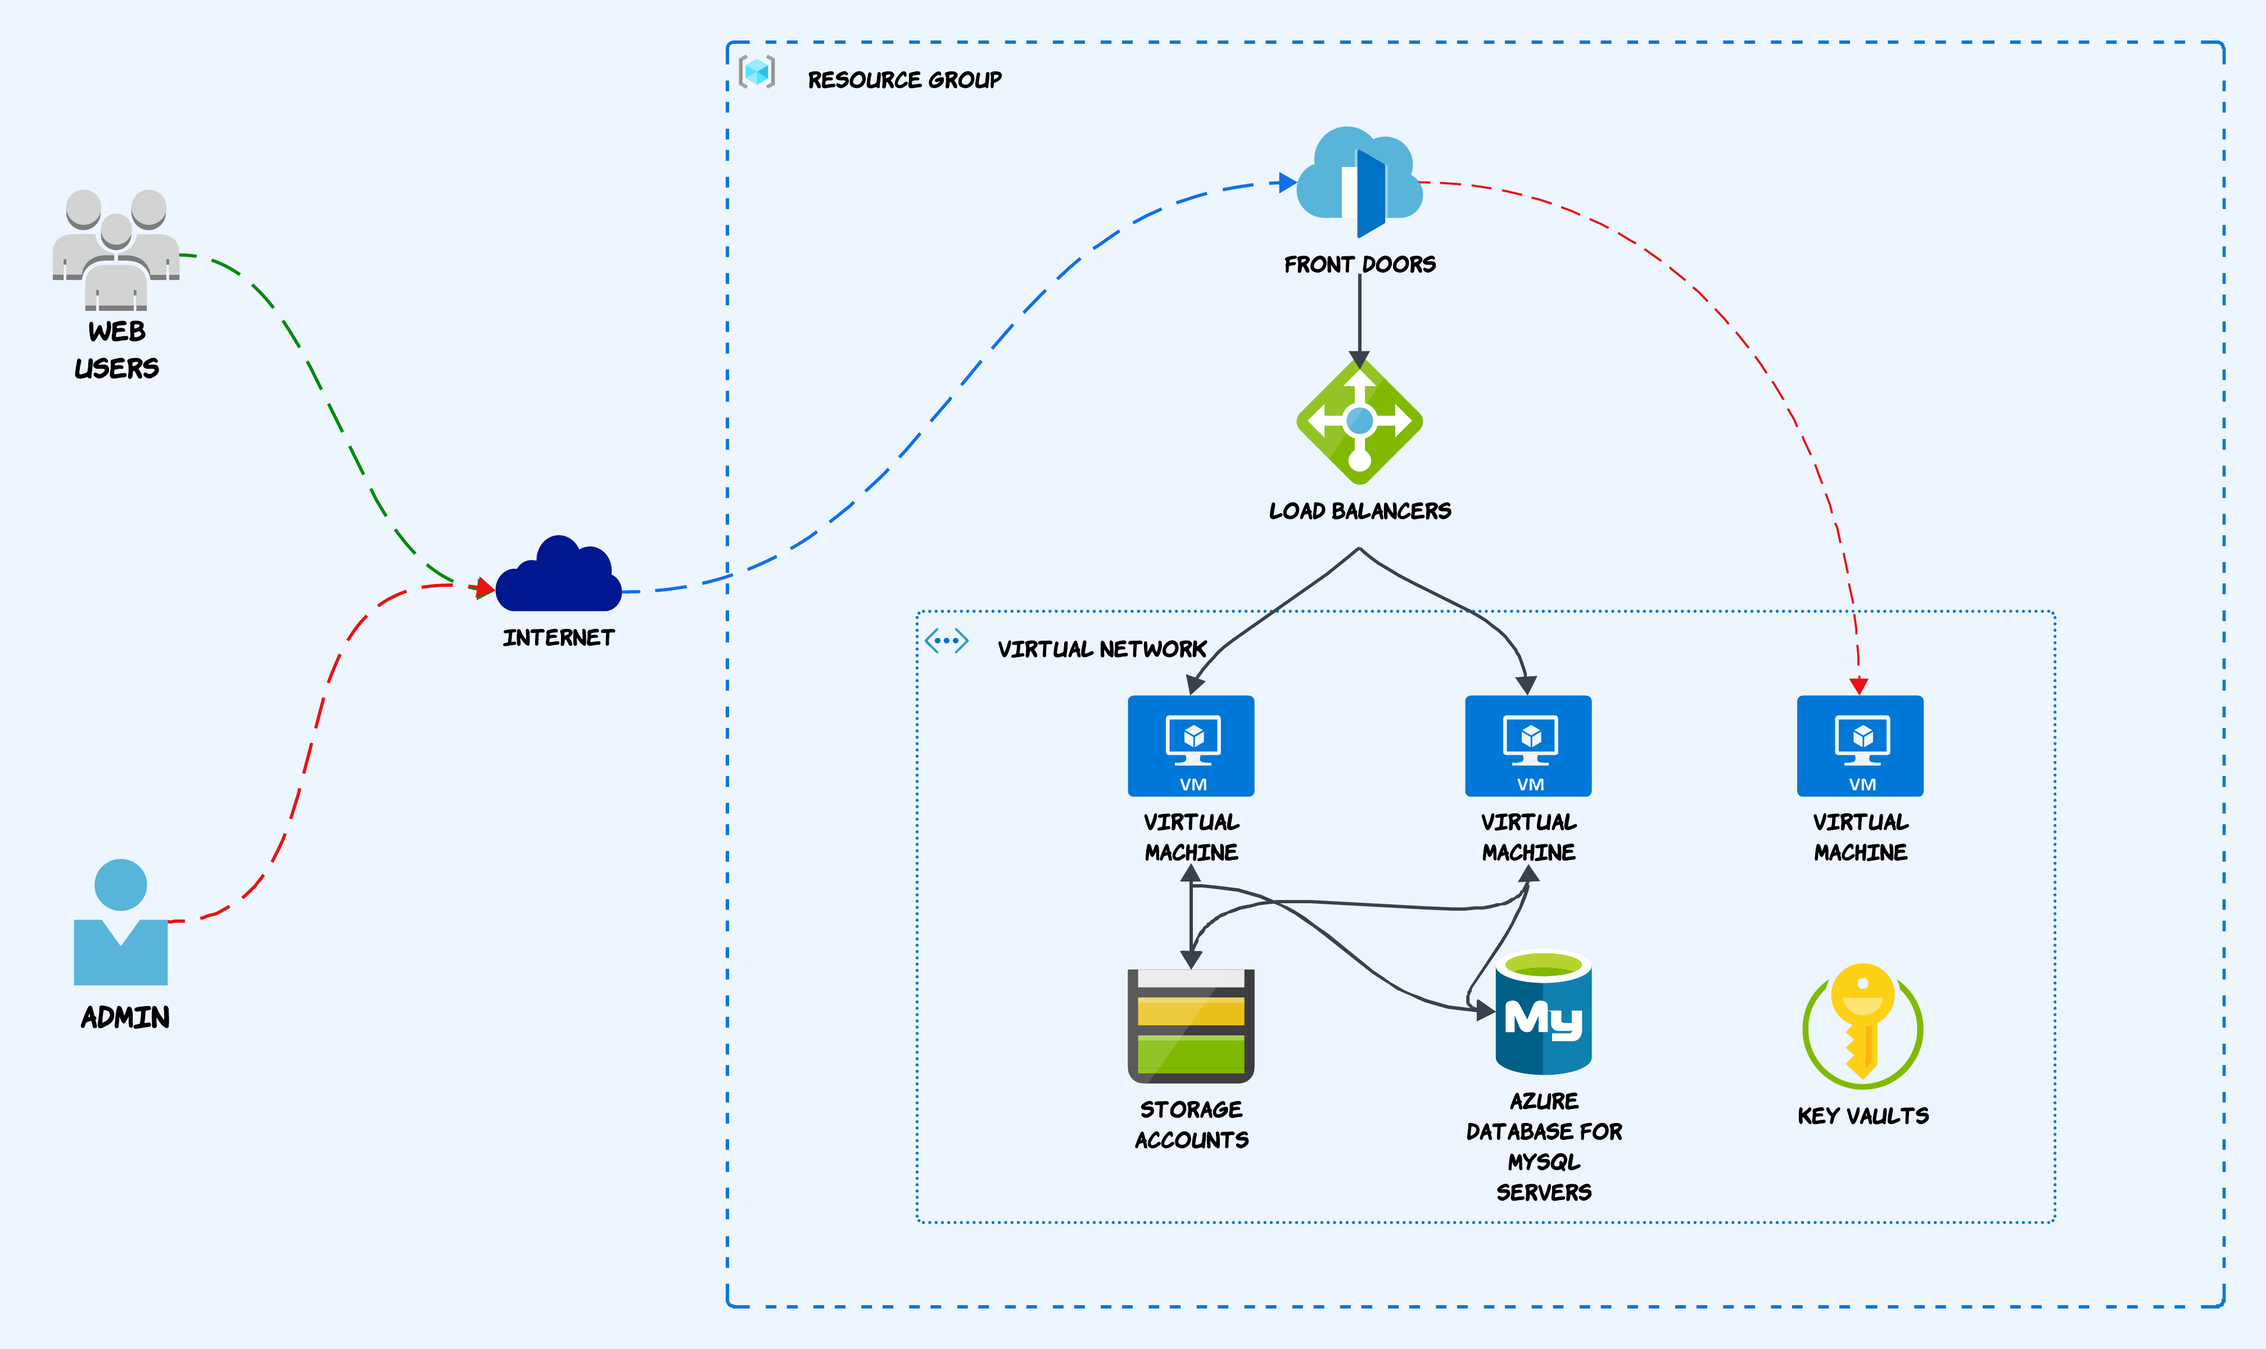
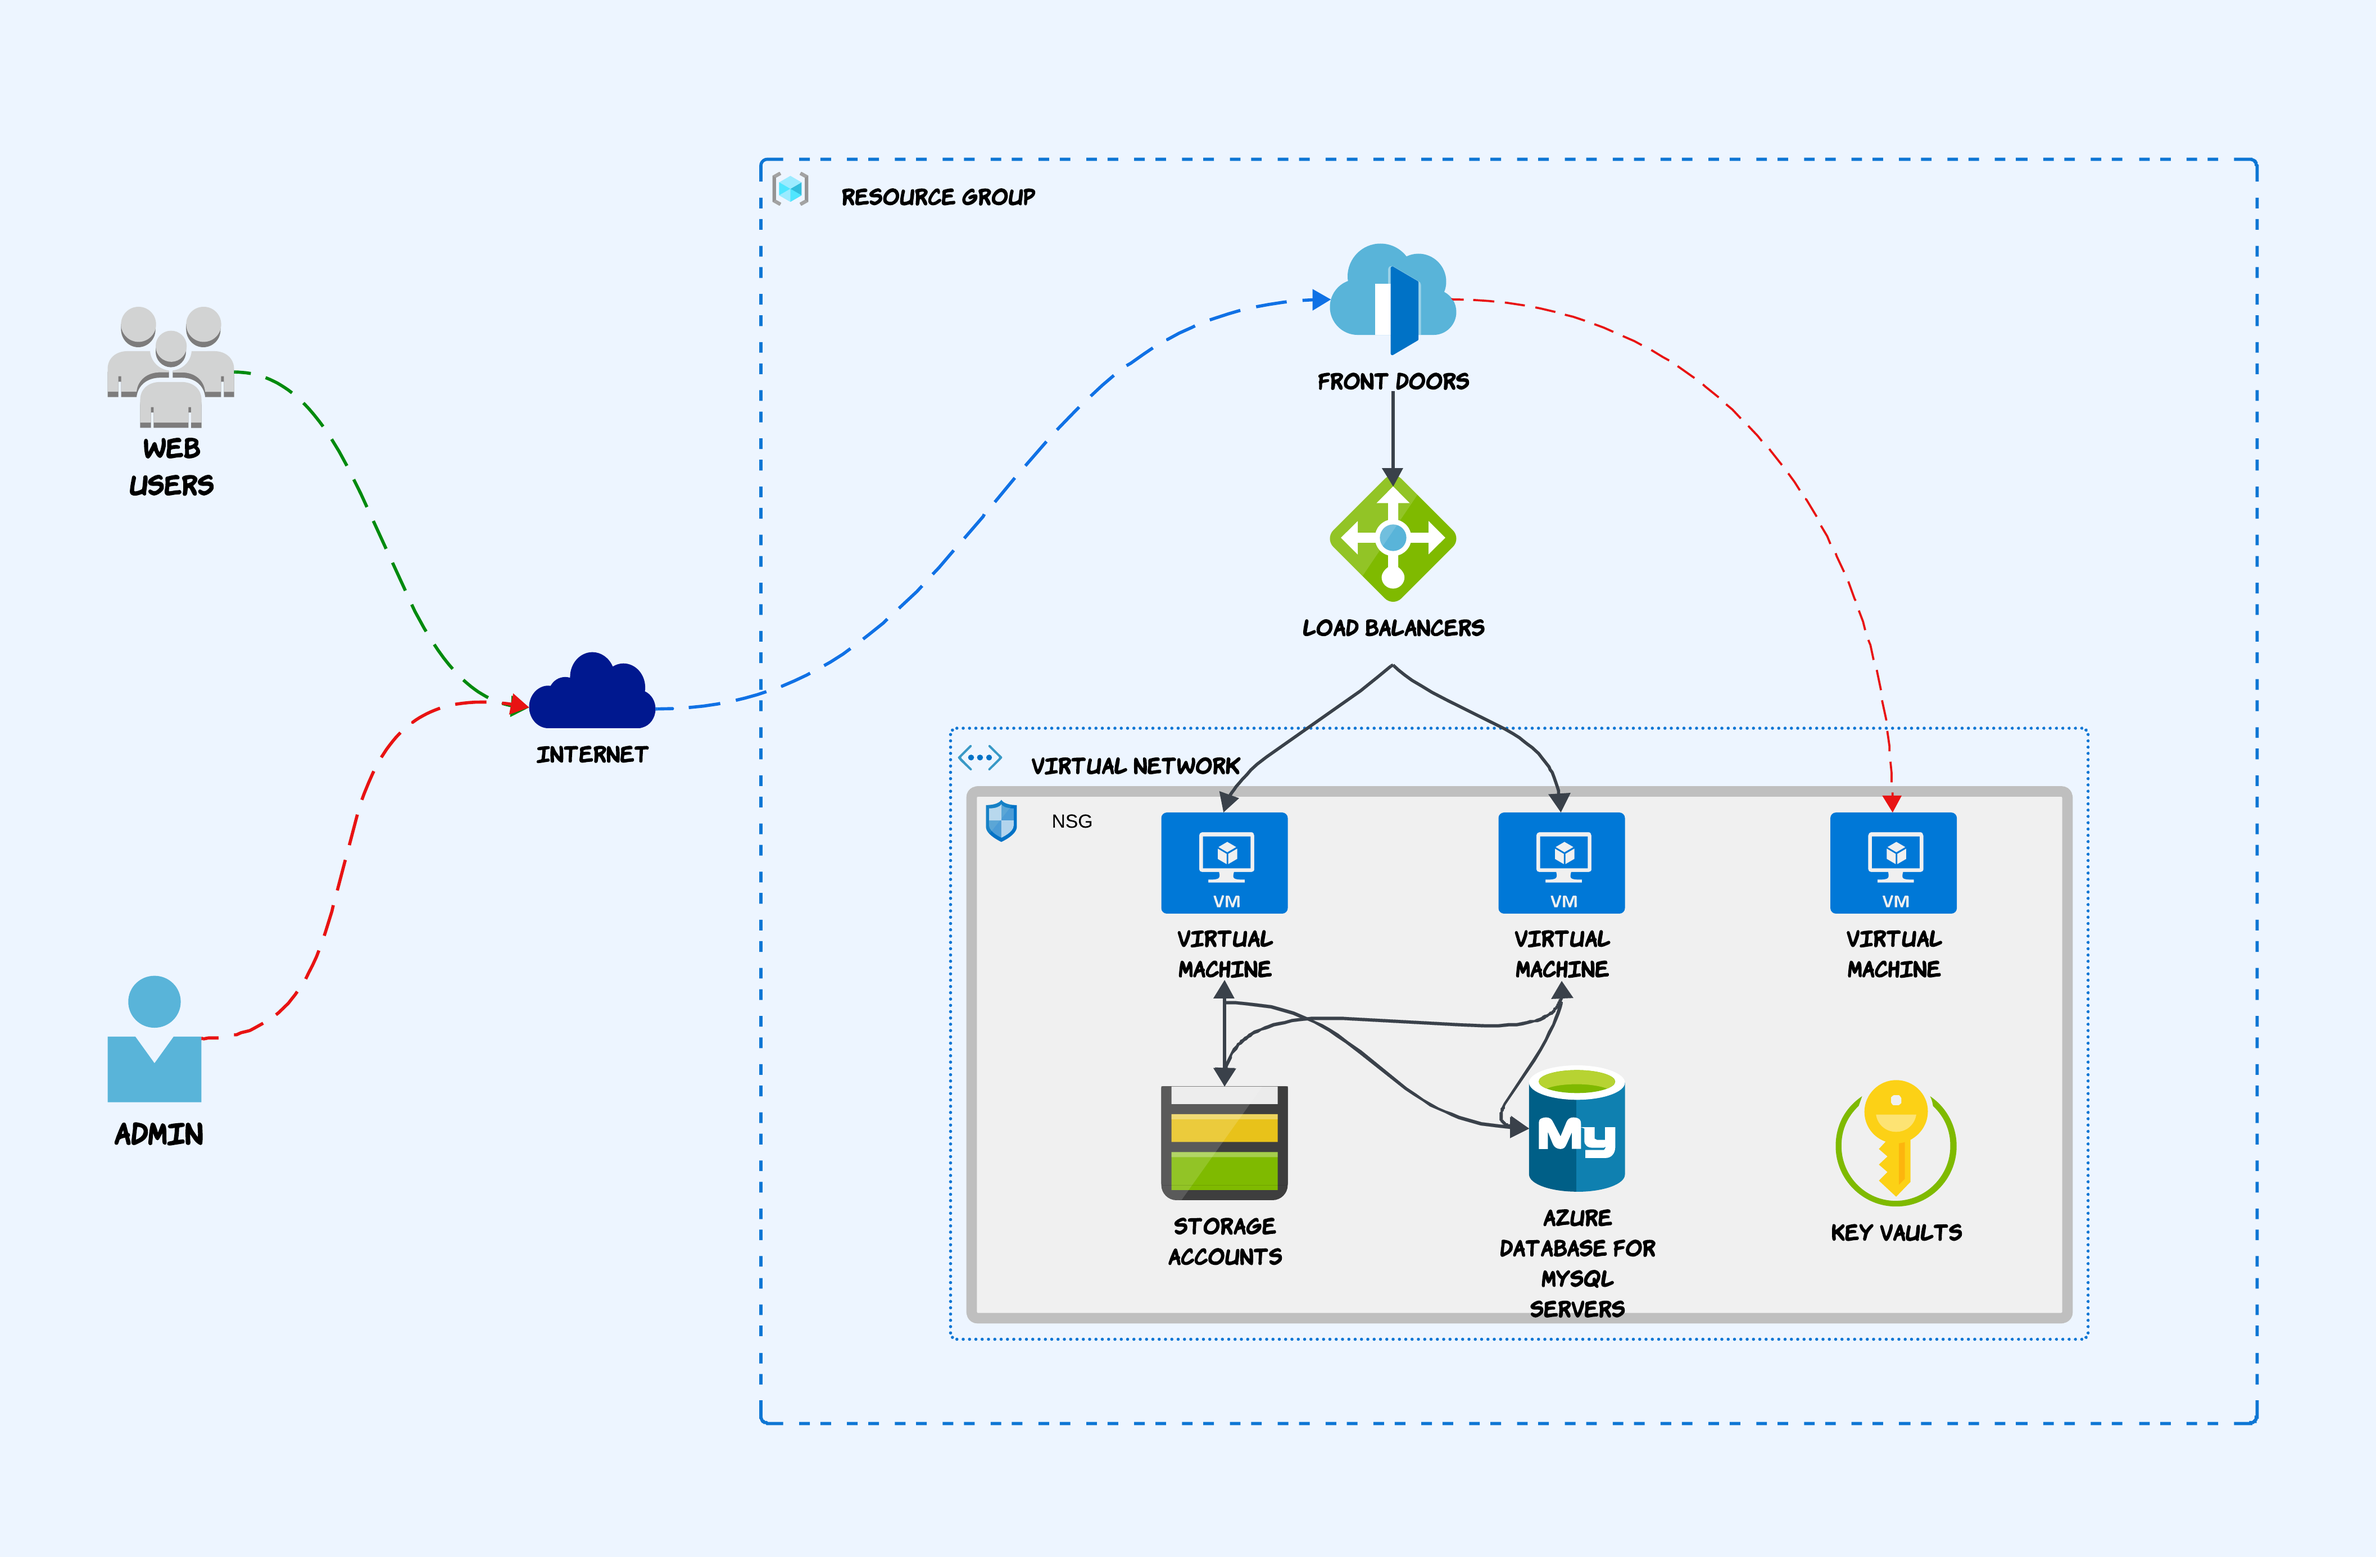
Updated net diag

diff --git a/docs/Part_1.md b/docs/Part_1.md
@@ -1,34 +1,41 @@
-We'll start by exploring the Azure infrastructure that forms the backbone of our hosting platform. I'll explain the architectural design, the resources involved, and the key decisions made to ensure a secure and scalable environment.
+### Part 1: Azure Infrastructure Overview
+We’ll start by exploring the Azure infrastructure that forms the backbone of our hosting platform. I’ll explain the architectural design, the resources involved, and the key decisions made to ensure a secure and scalable environment.
 
-![net_diag](../images/net_diag.png)
+![Architecture](../images/net_diag.png)
 
 ### **Users & Admins:**
--  **Users** access the hosted applications over the internet.
--  **Admins** access the management portal for managing and configuring the infrastructure.
+-   Users access the hosted applications over the internet.
+-   Admins access the management portal for managing and configuring the infrastructure.
 ### **Azure Components:**
--  **Azure Front Door**
-Azure Front Door handles incoming web traffic, providing load balancing, SSL offloading, and possibly Web Application Firewall (WAF) capabilities. It ensures that traffic is efficiently routed to the appropriate resources in the backend. URL-based routing is handled by Azure Front Door.
--  **Load Balancer**
+#### **Azure Front Door:**
+Azure Front Door handles incoming web traffic, providing load balancing, SSL offloading, and possibly Web Application Firewall (WAF) capabilities. It ensures that traffic is efficiently routed to the appropriate resources in the backend. URL-based routing is handled by Azure Front Door
+#### **Load Balancer:**
 The Load Balancer distributes incoming traffic across multiple Virtual Machines (VMs) to ensure high availability and reliability of services. It acts as an intermediary to balance the load and prevent any single VM from being overwhelmed.
-#### **Backend Infrastructure:**
--  **Virtual Machines (VMs):**
+#### **NSG (Network Security Group):**
+Controls inbound and outbound traffic to and from the VMs in the virtual network.
+### **Backend Infrastructure:**
+#### **Virtual Machines (VMs):**
 There are two VMs that act as web servers hosting the application. The Load Balancer directs traffic to these VMs to manage the load. These VMs may be running web servers, application services, or other related processes.
--  **Database:**
+#### **Database:**
 The architecture includes a managed database service, Azure Database for MySQL, which stores the application data accessed and manipulated by the VMs. This database is critical for handling the persistent storage needs of the application.
--  **Storage:**
-An Azure Storage account is used for persistent file sharing across web servers, meeting the application's storage needs.
--  **Key Vault:**
+#### **Storage:**
+An Azure Storage account is used for persistent file sharing across web servers, meeting the application’s storage needs.
+#### **Key Vault:**
 Azure Key Vault is employed for managing secrets, encryption keys, and certificates. It ensures that sensitive information, such as database credentials, API keys, and SSL certificates, is securely stored and accessed by the VMs or other services.
 #### **Virtual Network (VNet):**
-- All backend components (VMs, Database, Storage, Key Vault) are encapsulated within a Virtual Network (VNet), providing network isolation and security. The VNet allows the resources to communicate securely while being protected from the public internet.
-### Summary:
-This architecture is designed for a scalable and secure web hosting platform on Azure. Users access the platform through Azure Front Door, which routes traffic via a Load Balancer to multiple VMs. These VMs interact with a database, storage, and a Key Vault within a secure Virtual Network. Admins have a dedicated path to securely manage the infrastructure.
-### Resource Plan
-Lest asume your working on project names **star**, you are deploying **prod** envirnment in **Central India**
+All backend components (VMs, Database, Storage, Key Vault) are encapsulated within a Virtual Network (VNet), providing network isolation and security. The VNet allows the resources to communicate securely while being protected from the public internet.
+### **Data Flow:**
+-   Web Users connect to the application via the Internet.
+-   Traffic is routed through Azure Front Door, which directs it to the appropriate Load Balancers.
+-   The Load Balancers distribute the traffic to one of the available Virtual Machines within the Virtual Network.
+-   The Virtual Machines handle the application logic and may interact with Storage Accounts for data storage, the Azure Database for MySQL Servers for database operations, or Key Vaults for accessing secure credentials.
+-   Admins also connect through the Internet but likely have different access controls, allowing them to interact with various resources for management and monitoring purposes.
+### **Resource Plan**
+Let’s assume you’re working on a project named **Star**, and you are deploying a **production** environment in **Central India**.
 
-In next part we will see how to deploy this environment using **terraform**. In Terraform we will user Project Name & Environment variable to build resources names. Also we will be considering [Azure Naming Conventions](https://learn.microsoft.com/en-us/azure/cloud-adoption-framework/ready/azure-best-practices/resource-naming)
+In the next part, we will see how to deploy this environment using Terraform. In Terraform, we will use Project Name and Environment variables to build resource names. We will also consider [Azure Naming Conventions.](https://learn.microsoft.com/en-us/azure/cloud-adoption-framework/ready/azure-best-practices/resource-naming)
 
-Below table will give an idea how resources will be named.
+The table below will give an idea of how resources will be named.
 
 | Sr. No. | Resource Type | Resource Name | Resource SKU |
 |--|--|--|--|
